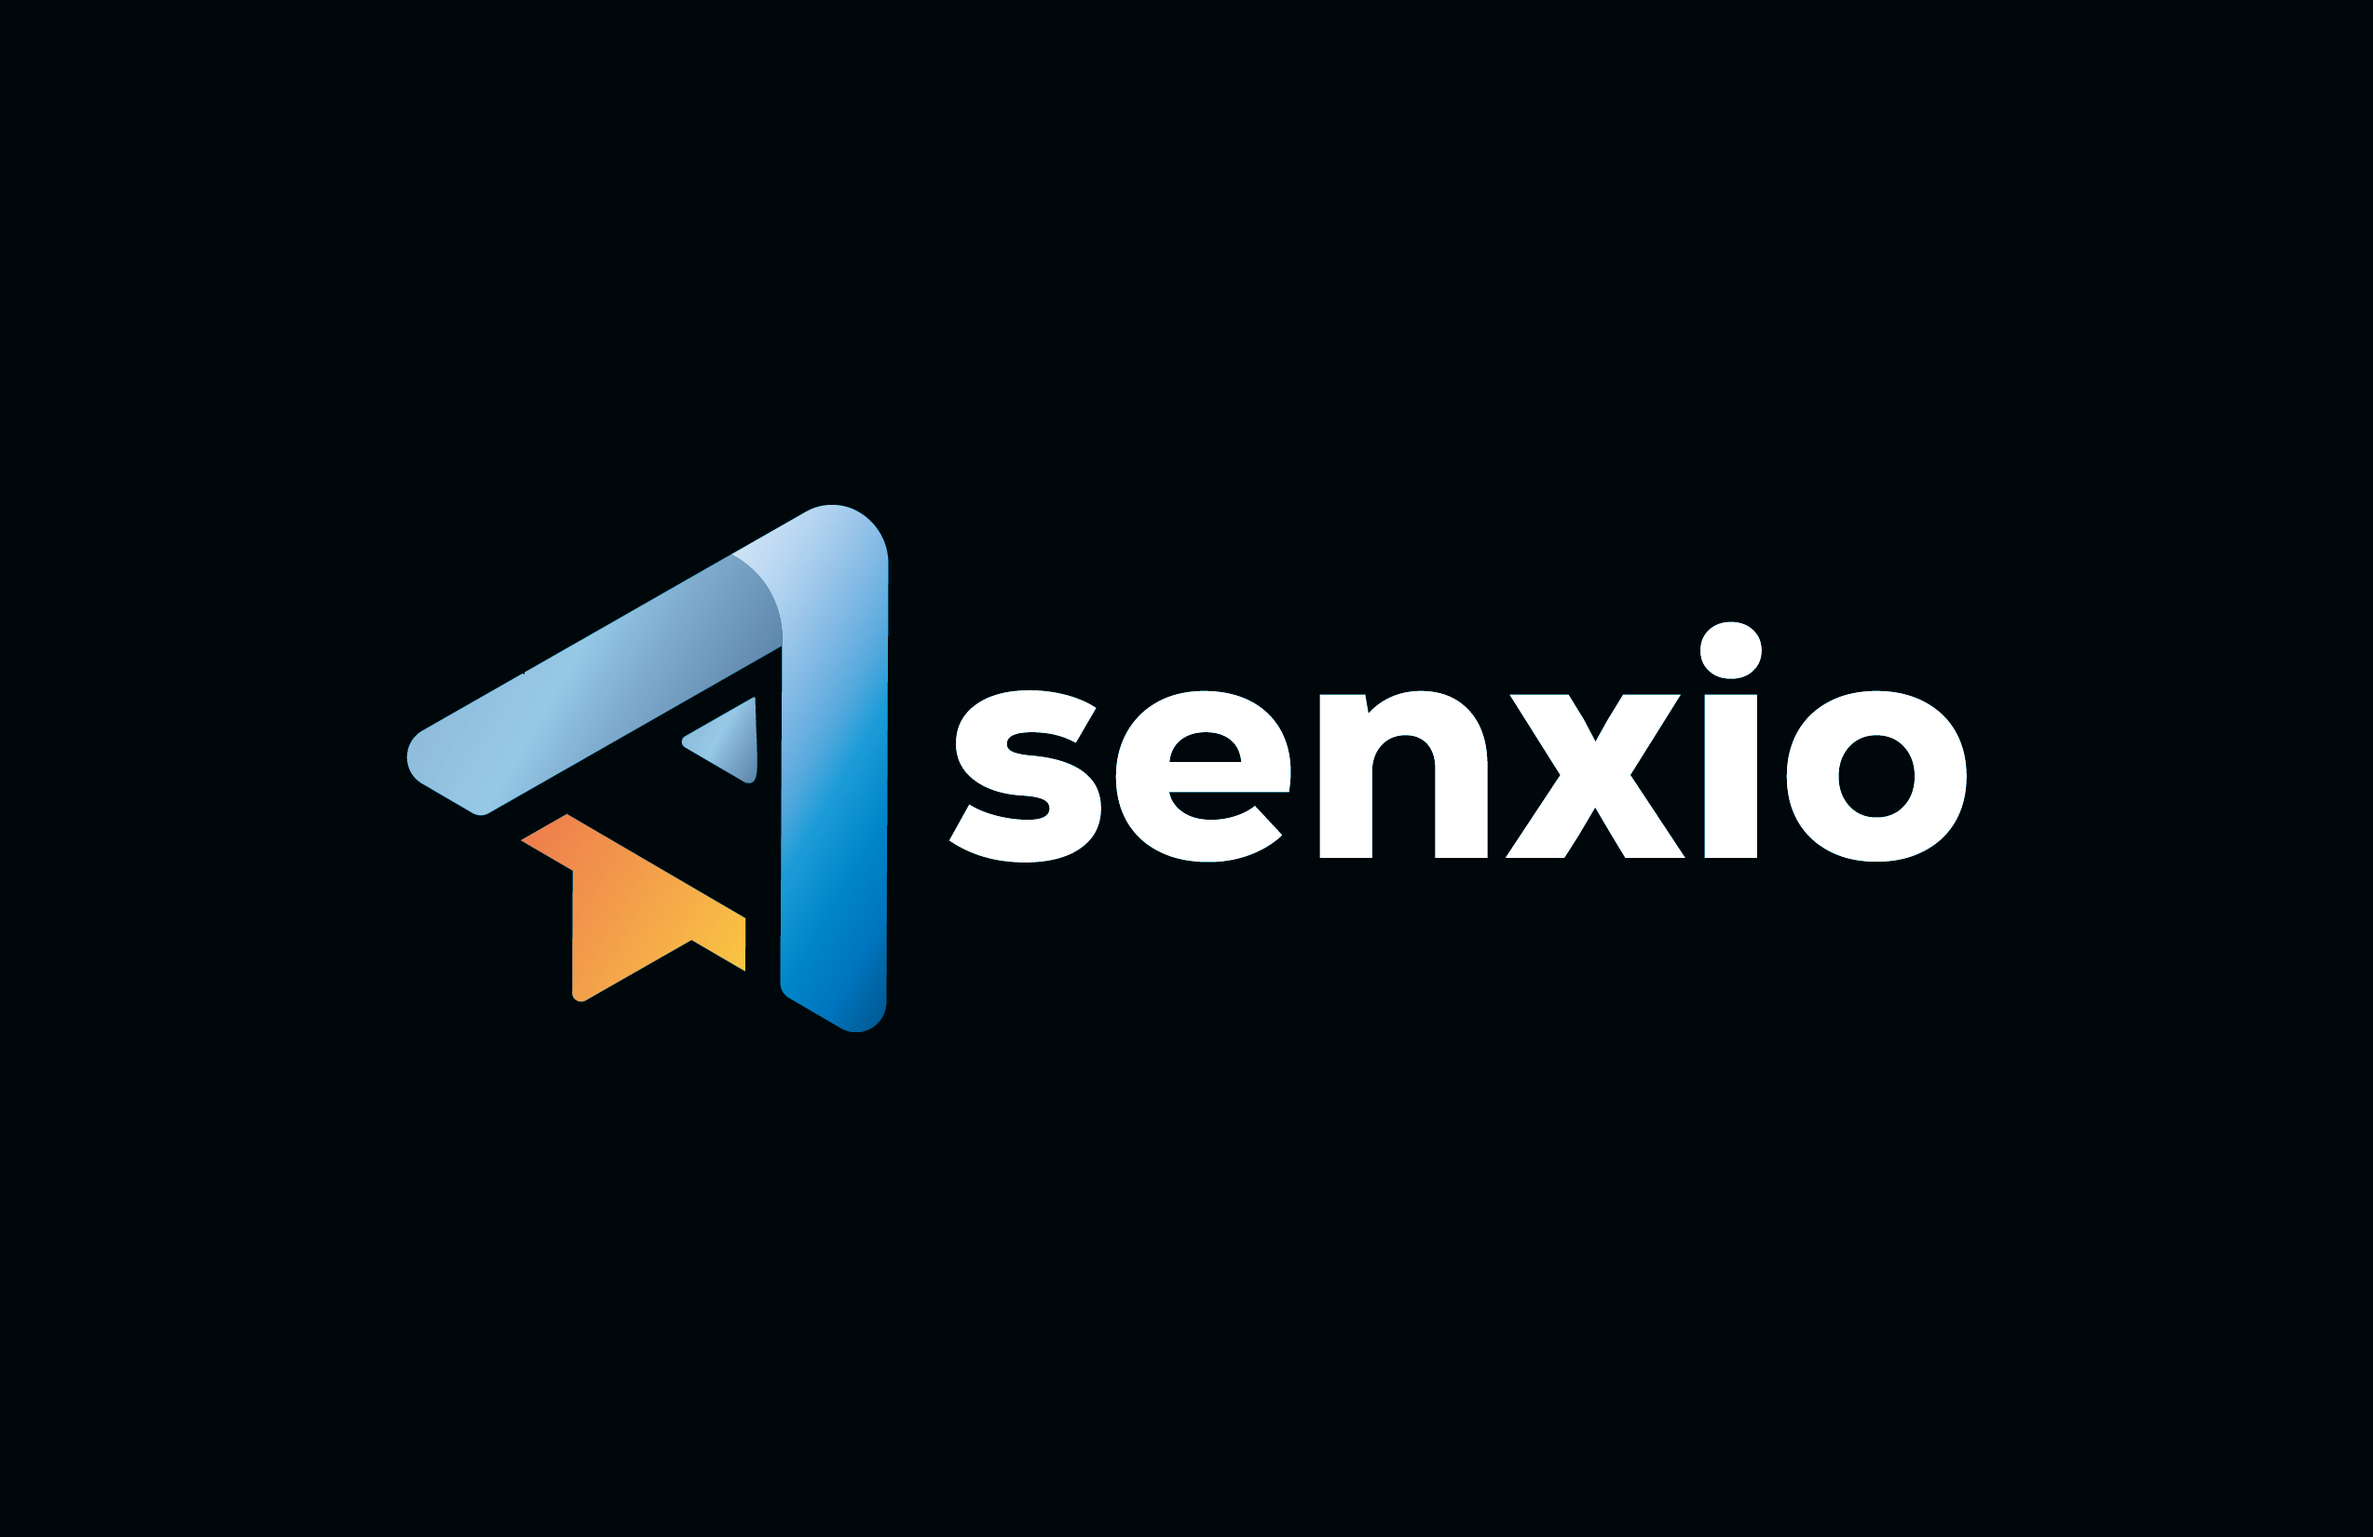
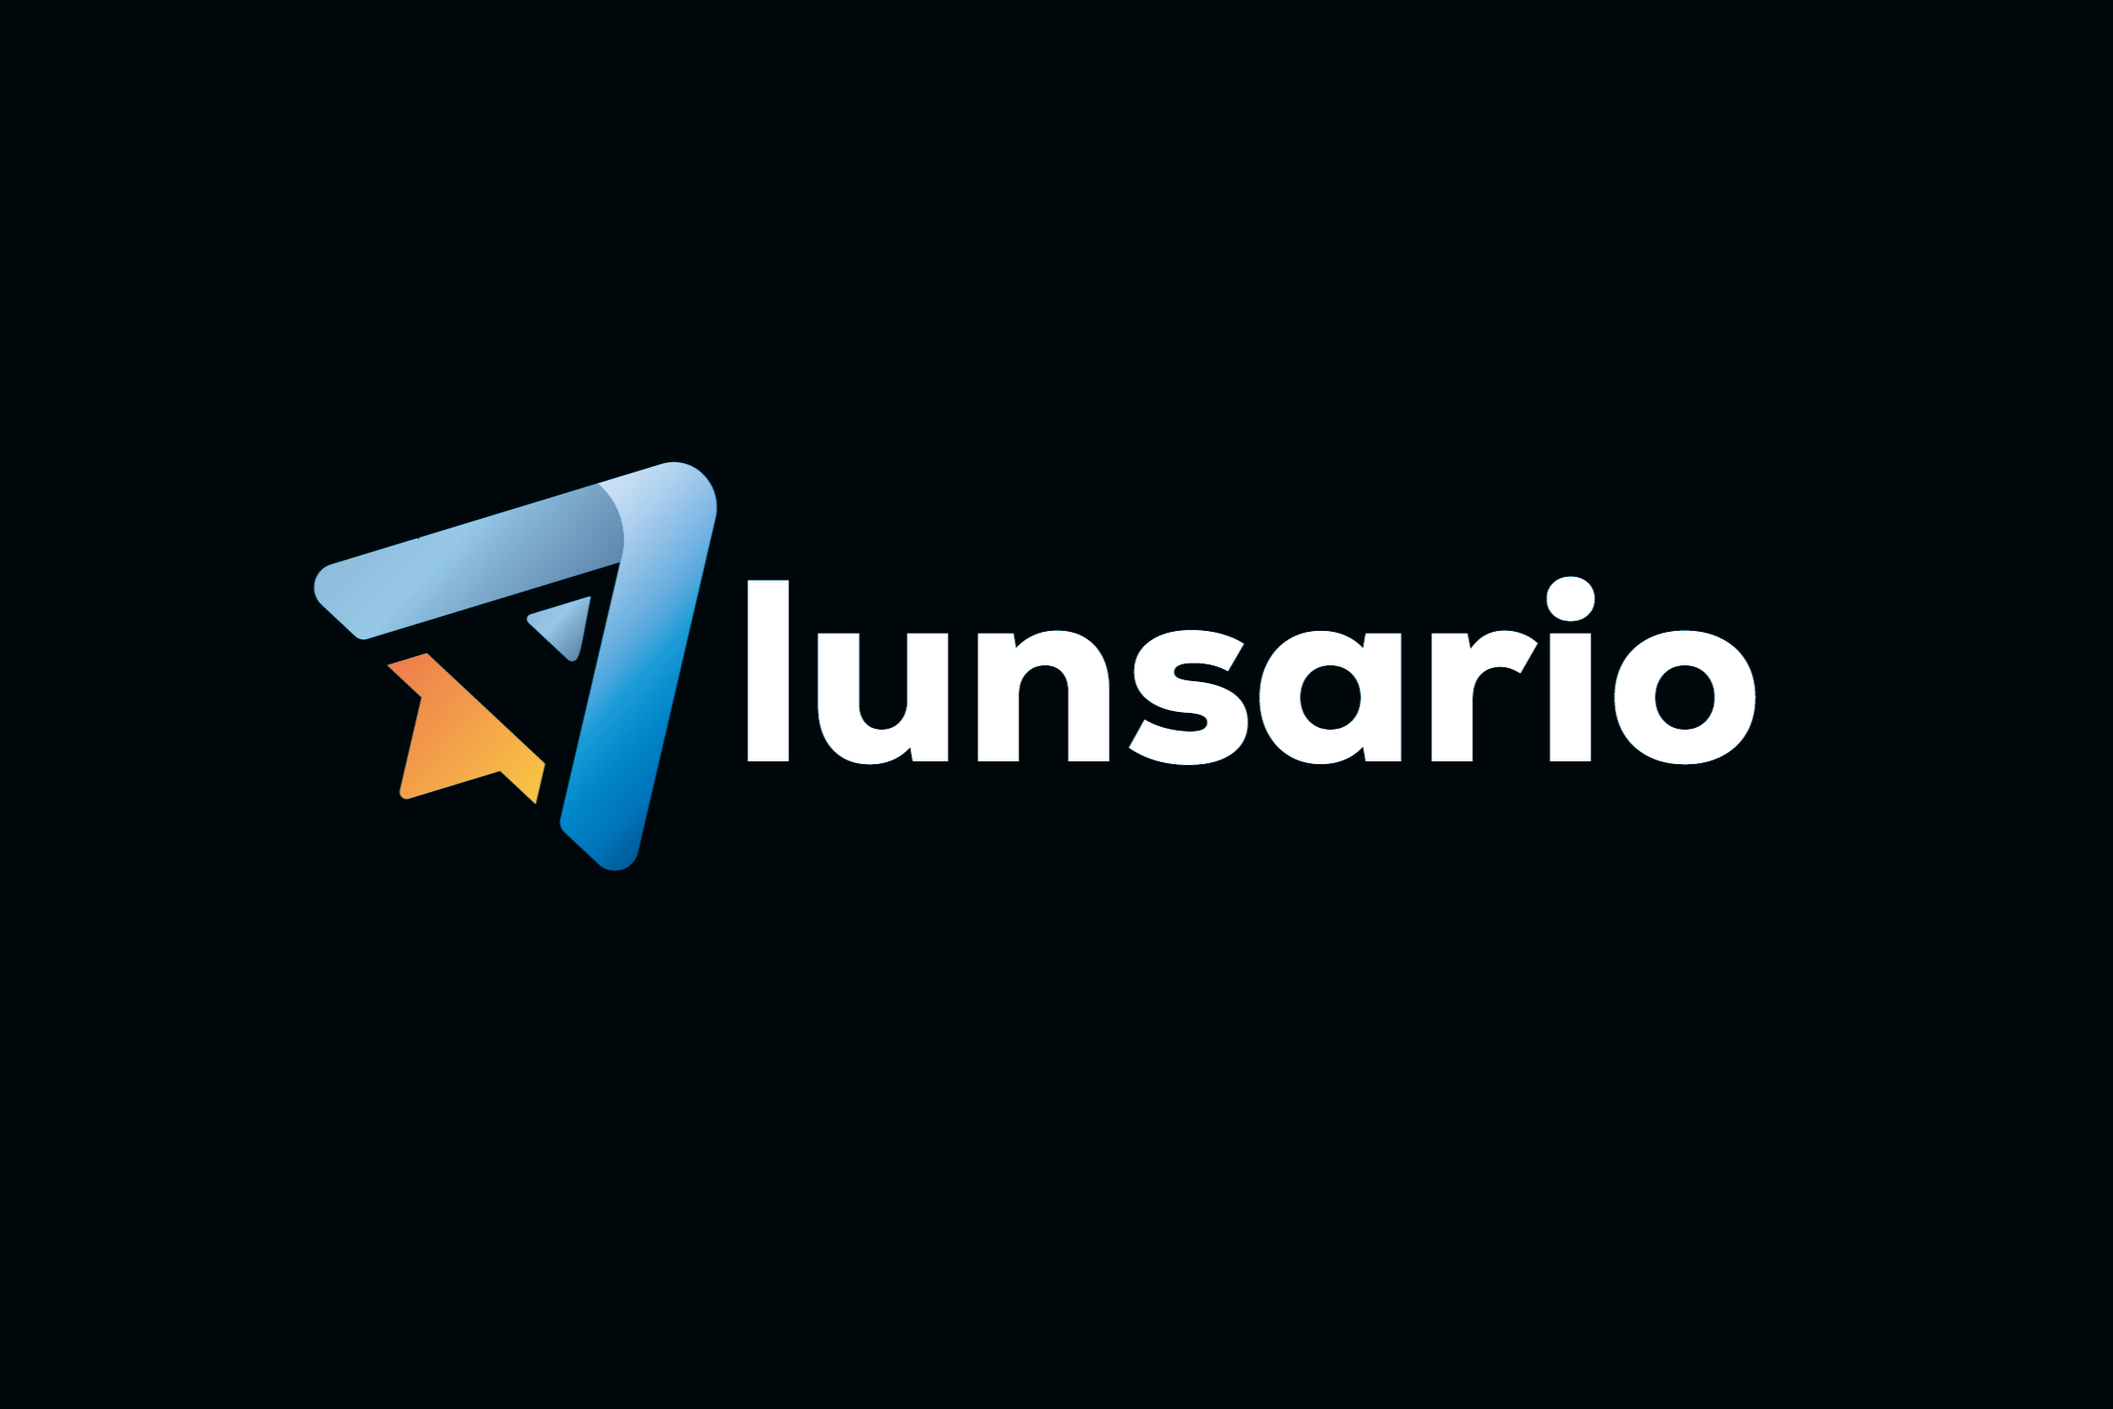
lunsario

Changed region(s): [[0.1235, 0.3108, 0.8333, 0.6839]]

diff --git a/src/app/portfolio/page.tsx b/src/app/portfolio/page.tsx
@@ -24,8 +24,8 @@ const projects = [
 		category: 'Machine Learning',
 	},
 	{
-		title: 'Asenxio',
-		description: 'PSCX Entry.',
+		title: 'Lunsario',
+		description: 'PSCX Entry. Top 5	in Regional Level.',
 		image: '/projects/strtpp.png',
 		link: '',
 		technologies: ['AI/ML', 'Web', 'React'],
